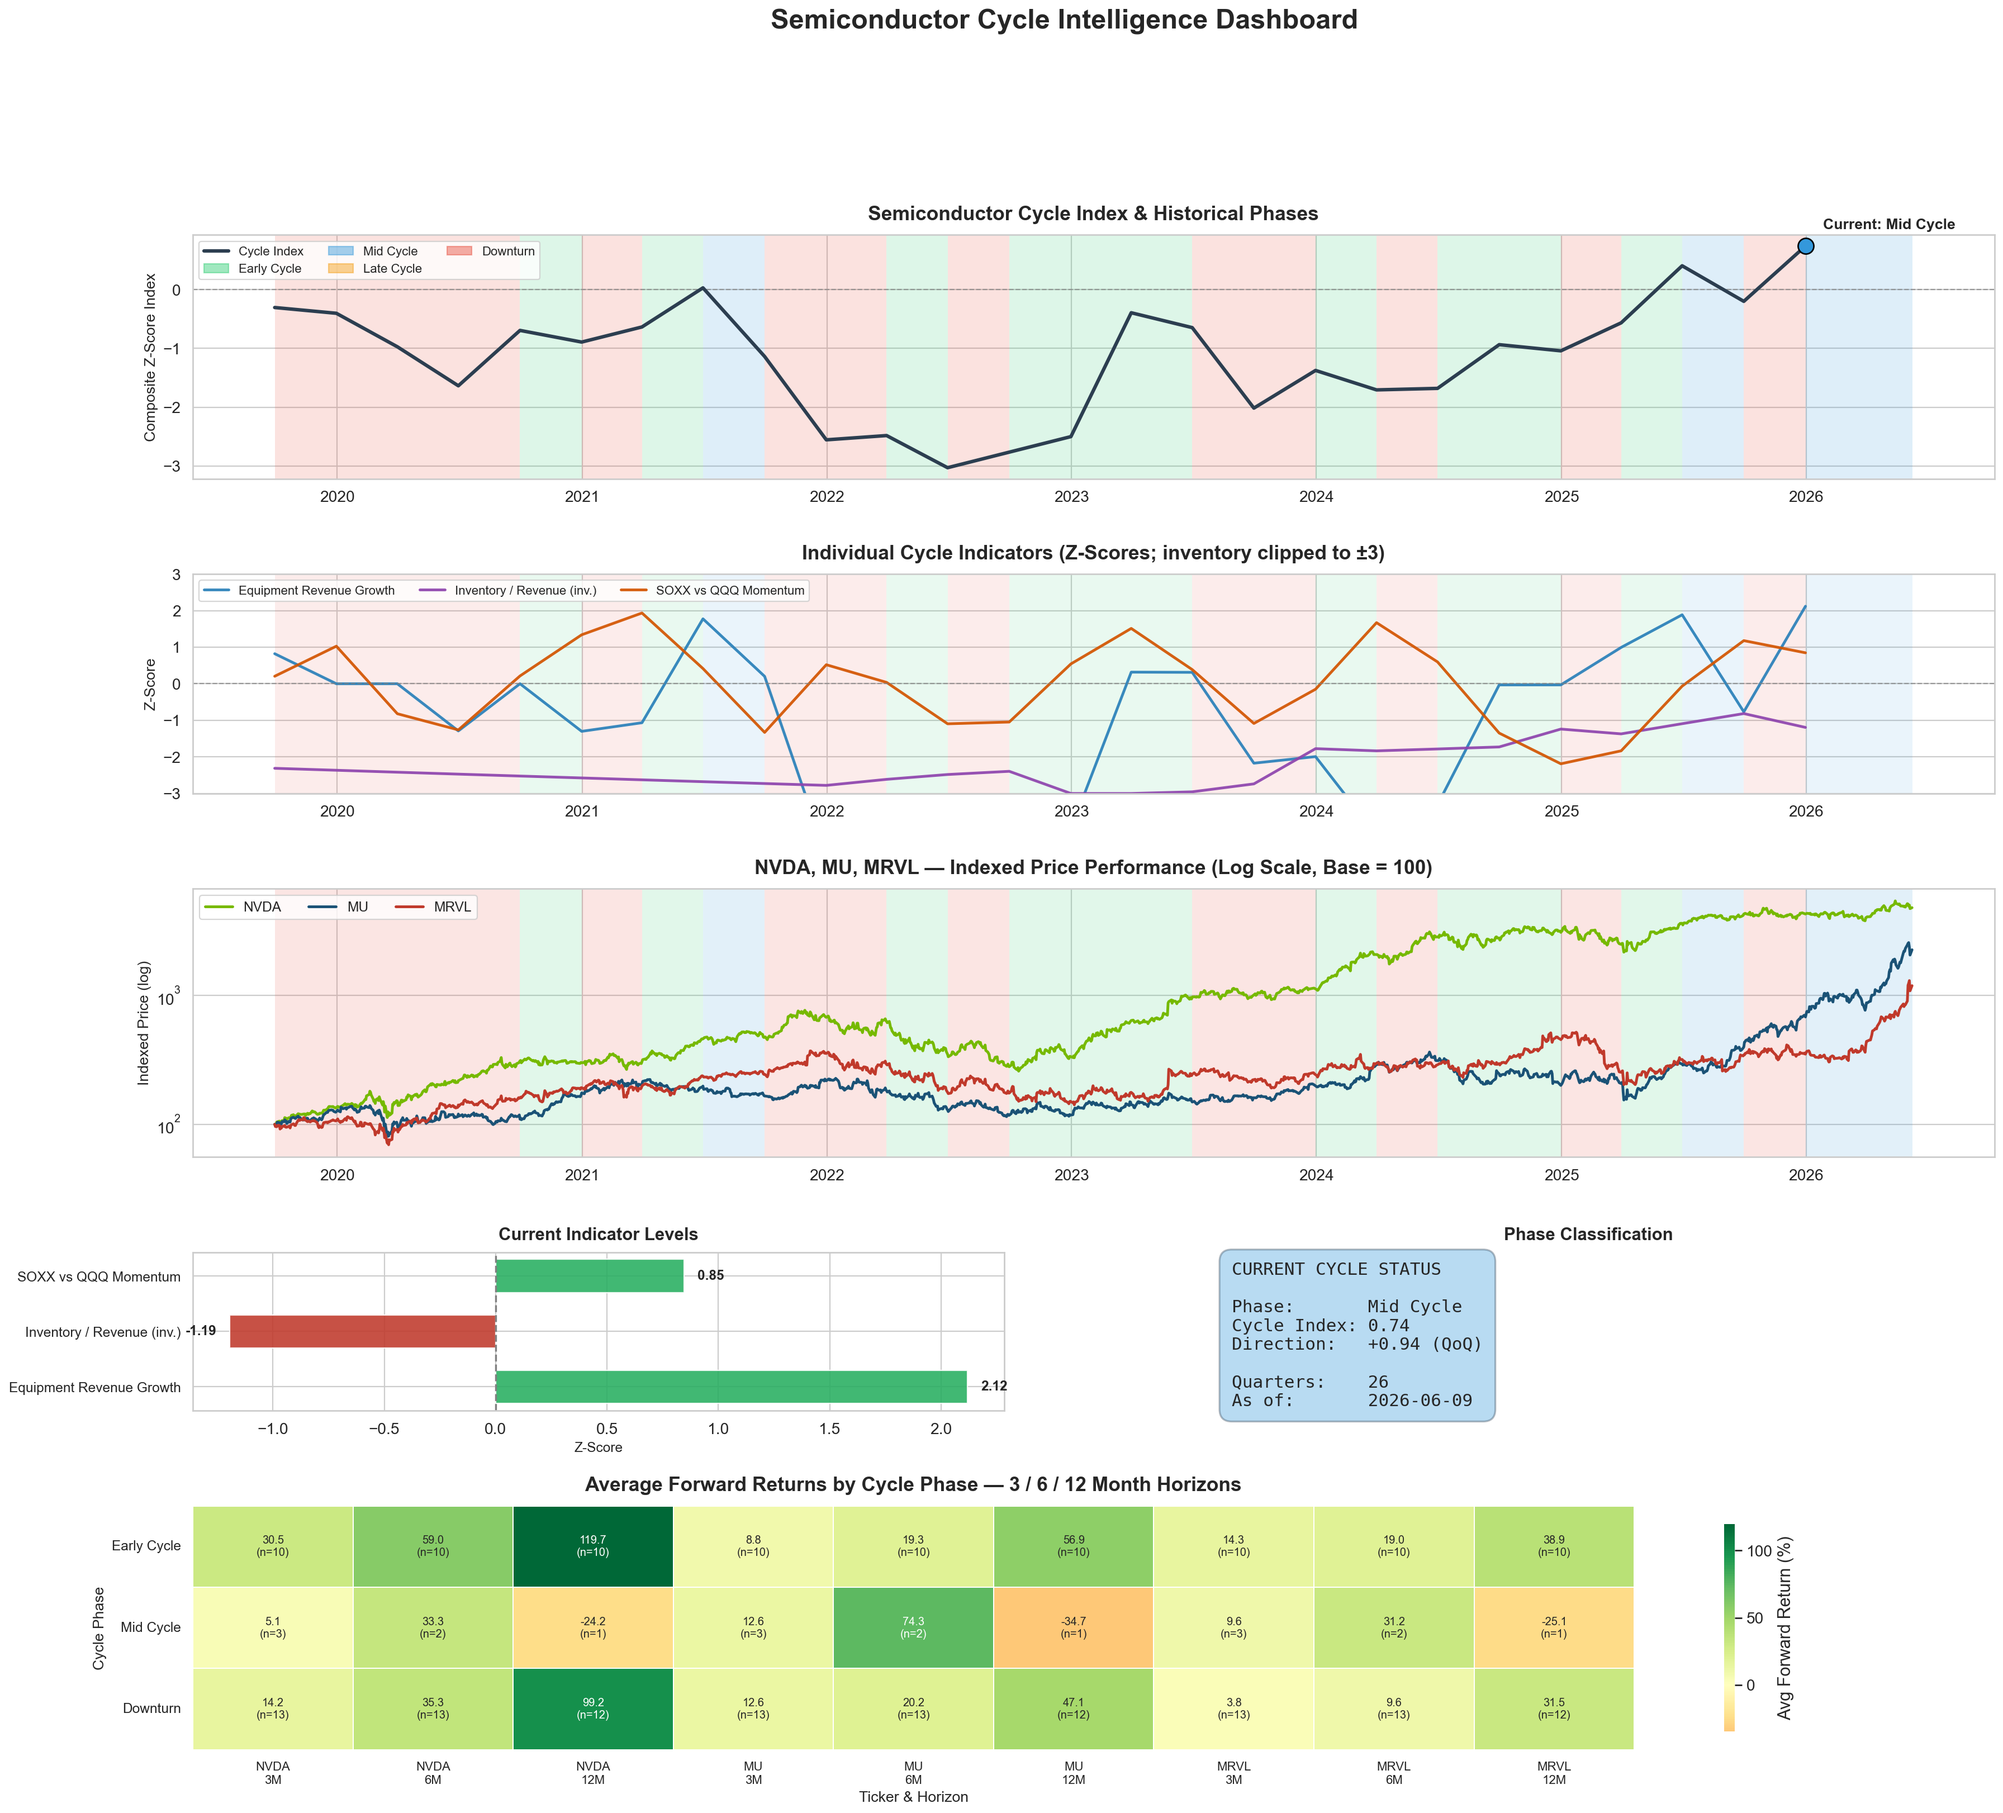
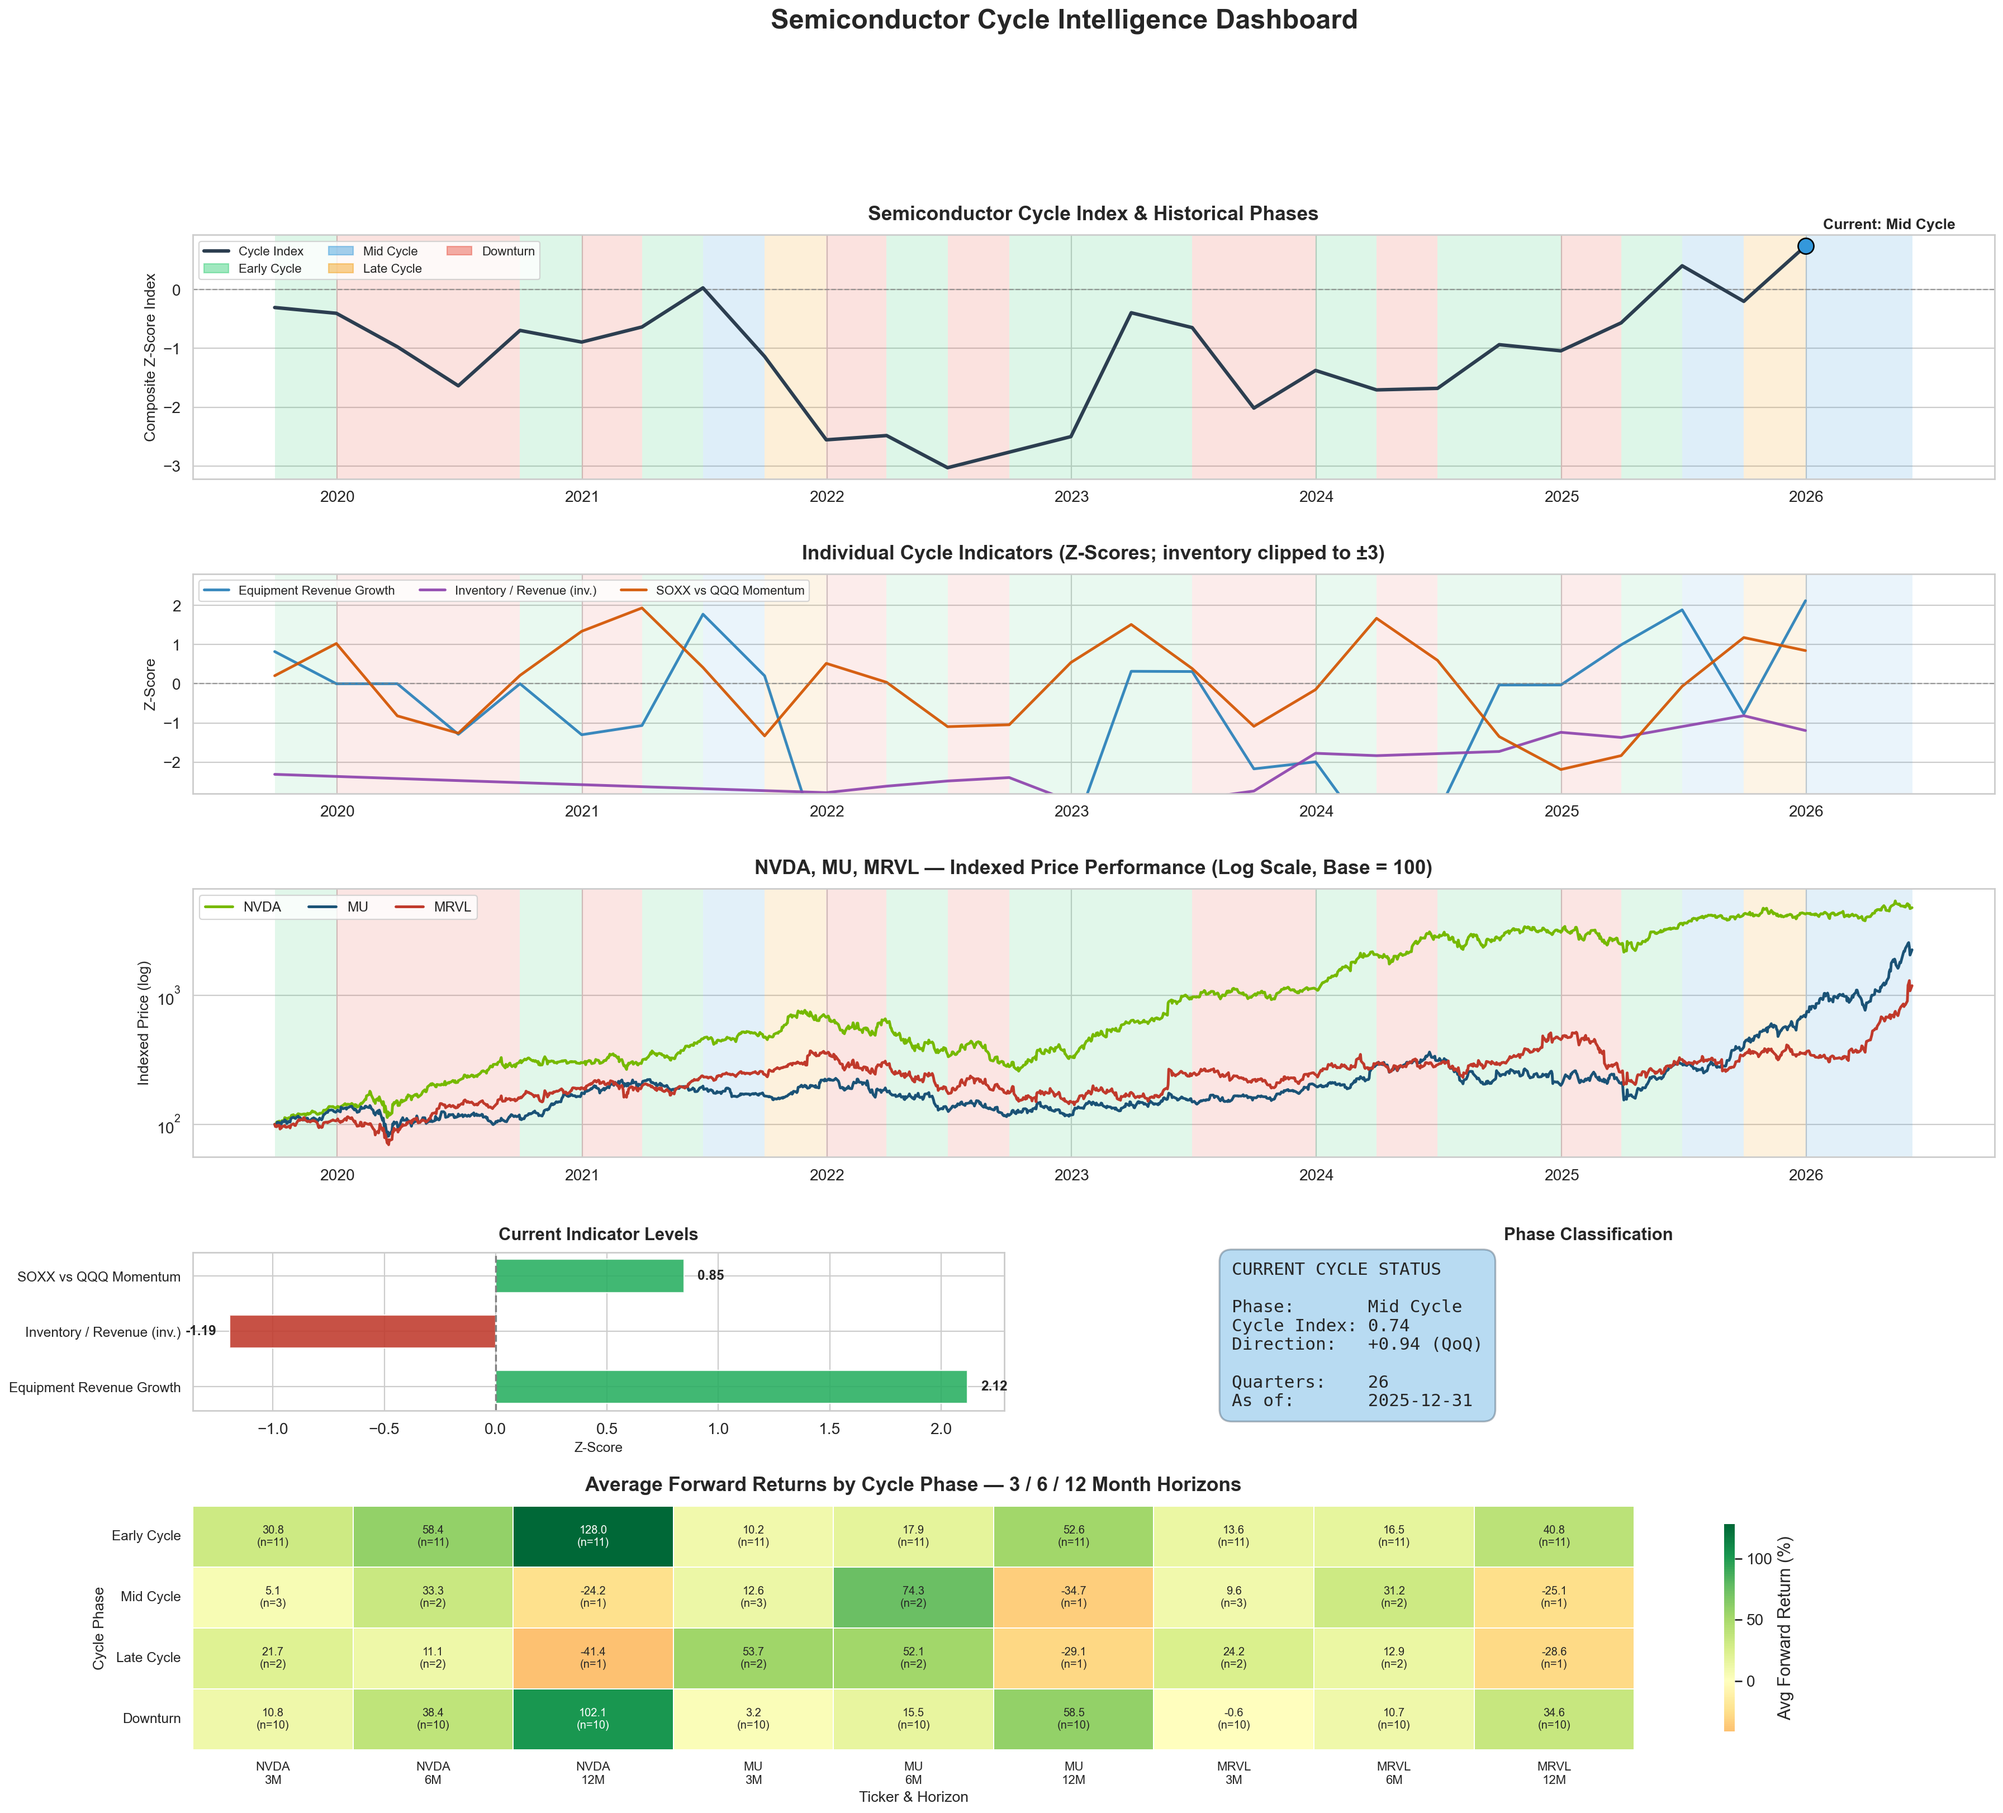
Fix Late Cycle classifier, update README, fix date and indicator bounds

diff --git a/cycle_classifier.py b/cycle_classifier.py
@@ -2,6 +2,7 @@
 
 from __future__ import annotations
 
+import numpy as np
 import pandas as pd
 
 PHASES = ("Early Cycle", "Mid Cycle", "Late Cycle", "Downturn")
@@ -29,24 +30,38 @@ def composite_index(indicators: pd.DataFrame) -> pd.Series:
     return index
 
 
-def classify_phase(index_level: float, direction: float) -> str:
+def classify_phase(
+    index_level: float,
+    direction: float,
+    prior_level: float | None = None,
+) -> str:
     """
-    Classify a quarter using composite index level and quarter-over-quarter change.
+    Classify a quarter using composite index level, QoQ direction, and prior level.
 
-    Early Cycle  — recovering from trough (low level, positive direction)
-    Mid Cycle    — expansion (elevated level, non-negative direction)
-    Late Cycle   — peak / rollover (elevated level, negative direction)
-    Downturn     — contraction (low level, negative direction)
+    Late Cycle uses the *prior* quarter's elevation when direction turns negative,
+    because sharp rollovers often pull the index below zero in the same quarter.
+
+    Early Cycle  — recovering from trough (prior below 0, direction positive)
+    Mid Cycle    — expansion (elevated and improving)
+    Late Cycle   — peak / rollover (elevated prior level, negative direction)
+    Downturn     — contraction (not elevated, negative direction)
     """
-    elevated = index_level >= 0.0
+    if prior_level is None or not np.isfinite(prior_level):
+        prior_level = index_level
+
+    if not np.isfinite(direction):
+        return "Mid Cycle" if index_level >= 0 else "Early Cycle"
+
+    was_elevated = prior_level >= 0.0
+    is_elevated = index_level >= 0.0
     improving = direction >= 0.0
 
-    if elevated and improving:
-        return "Mid Cycle"
-    if elevated and not improving:
+    if was_elevated and not improving:
         return "Late Cycle"
-    if not elevated and improving:
-        return "Early Cycle"
+    if is_elevated and improving:
+        return "Mid Cycle"
+    if not was_elevated and improving:
+        return "Early Cycle" if index_level < 0 else "Mid Cycle"
     return "Downturn"
 
 
@@ -54,19 +69,15 @@ def classify_series(indicators: pd.DataFrame) -> pd.DataFrame:
     """Add composite index, direction, and phase labels to indicator frame."""
     idx = composite_index(indicators)
     direction = idx.diff()
+    prior = idx.shift(1)
+
     phases = [
-        classify_phase(level, dir_)
-        for level, dir_ in zip(idx, direction, strict=False)
+        classify_phase(level, dir_, prior_level=prev)
+        for level, dir_, prev in zip(idx, direction, prior, strict=False)
     ]
 
     out = indicators.copy()
     out["cycle_index"] = idx
     out["cycle_direction"] = direction
     out["phase"] = phases
-    # First quarter has no direction — label from level only
-    if len(out) > 0:
-        first_level = out["cycle_index"].iloc[0]
-        out.iloc[0, out.columns.get_loc("phase")] = (
-            "Mid Cycle" if first_level >= 0 else "Early Cycle"
-        )
     return out.dropna(subset=["cycle_index"])

diff --git a/dashboard.py b/dashboard.py
@@ -2,7 +2,6 @@
 
 from __future__ import annotations
 
-from datetime import date
 from pathlib import Path
 
 import matplotlib.dates as mdates
@@ -205,7 +204,7 @@ def create_dashboard(
                 alpha=0.92,
             )
         ax_indicator_ts.axhline(0, color="gray", linestyle="--", linewidth=1, alpha=0.7)
-    ax_indicator_ts.set_ylim(-3, 3)
+    ax_indicator_ts.set_ylim(-2.8, 2.8)
 
     ax_indicator_ts.set_title(
         "Individual Cycle Indicators (Z-Scores; inventory clipped to ±3)",
@@ -287,6 +286,7 @@ def create_dashboard(
     ax_current_card.axis("off")
     if not classified.empty:
         status_row = _status_row(classified, data_as_of)
+        as_of_quarter = pd.Timestamp(status_row.name).strftime("%Y-%m-%d")
         card_lines = [
             "CURRENT CYCLE STATUS",
             "",
@@ -295,7 +295,7 @@ def create_dashboard(
             f"Direction:   {status_row.get('cycle_direction', float('nan')):+.2f} (QoQ)",
             "",
             f"Quarters:    {len(classified)}",
-            f"As of:       {date.today().strftime('%Y-%m-%d')}",
+            f"As of:       {as_of_quarter}",
         ]
         ax_current_card.text(
             0.06,

diff --git a/data_collector.py b/data_collector.py
@@ -239,17 +239,19 @@ def fetch_daily_prices(
 
 
 def latest_reported_quarter() -> pd.Timestamp | None:
-    """Most recent calendar quarter with reported (non-estimated) quarterly filings."""
-    quarter_dates: list[pd.Timestamp] = []
+    """Latest quarter with broad quarterly filing coverage (min of per-ticker report dates)."""
+    latest_per_ticker: list[pd.Timestamp] = []
     for ticker in EQUIPMENT_TICKERS:
         reported = _line_item_series(ticker, "income", REVENUE_ROWS, freq="quarterly")
-        quarter_dates.extend(reported.dropna().index.tolist())
+        if not reported.empty:
+            latest_per_ticker.append(reported.index.max())
     for ticker in ("MU", "TXN"):
         reported = _line_item_series(ticker, "balance", INVENTORY_ROWS, freq="quarterly")
-        quarter_dates.extend(reported.dropna().index.tolist())
-    if not quarter_dates:
+        if not reported.empty:
+            latest_per_ticker.append(reported.index.max())
+    if not latest_per_ticker:
         return None
-    return pd.Timestamp(max(quarter_dates))
+    return pd.Timestamp(min(latest_per_ticker))
 
 
 def collect_all() -> dict[str, pd.DataFrame | pd.Timestamp | None]:

diff --git a/README.md b/README.md
@@ -149,25 +149,61 @@ Console summary from a recent run:
 
 ```
 [3/5] Classifying cycle phases...
-  Current phase: Late Cycle
-  Cycle index: 0.40
+  Current phase: Mid Cycle
+  Cycle index: 0.74
 
 [4/5] Computing forward returns by phase...
-     phase ticker  horizon_months  avg_forward_return  n_obs
-Late Cycle   MRVL               3            0.166407      1
-Late Cycle     MU               3            0.184198      1
-Late Cycle   NVDA               3           -0.064829      1
+      phase ticker  horizon_months  avg_forward_return  n_obs
+   Downturn   MRVL               3           -0.005608     10
+   Downturn   MRVL               6            0.107061     10
+   Downturn   MRVL              12            0.346217     10
+   Downturn     MU               3            0.032374     10
+   Downturn     MU               6            0.155046     10
+   Downturn     MU              12            0.584970     10
+   Downturn   NVDA               3            0.108105     10
+   Downturn   NVDA               6            0.383845     10
+   Downturn   NVDA              12            1.020781     10
+Early Cycle   MRVL               3            0.136133     11
+Early Cycle   MRVL               6            0.165145     11
+Early Cycle   MRVL              12            0.408205     11
+Early Cycle     MU               3            0.101783     11
+Early Cycle     MU               6            0.179151     11
+Early Cycle     MU              12            0.525741     11
+Early Cycle   NVDA               3            0.308011     11
+Early Cycle   NVDA               6            0.584448     11
+Early Cycle   NVDA              12            1.280069     11
+ Late Cycle   MRVL               3            0.241944      2
+ Late Cycle   MRVL               6            0.129257      2
+ Late Cycle   MRVL              12           -0.285709      1
+ Late Cycle     MU               3            0.536747      2
+ Late Cycle     MU               6            0.521242      2
+ Late Cycle     MU              12           -0.291064      1
+ Late Cycle   NVDA               3            0.216774      2
+ Late Cycle   NVDA               6            0.111194      2
+ Late Cycle   NVDA              12           -0.413558      1
+  Mid Cycle   MRVL               3            0.096171      3
+  Mid Cycle   MRVL               6            0.312325      2
+  Mid Cycle   MRVL              12           -0.251025      1
+  Mid Cycle     MU               3            0.126488      3
+  Mid Cycle     MU               6            0.742678      2
+  Mid Cycle     MU              12           -0.346999      1
+  Mid Cycle   NVDA               3            0.050684      3
+  Mid Cycle   NVDA               6            0.333364      2
+  Mid Cycle   NVDA              12           -0.241629      1
 ```
 
-Excerpt from the AI brief (`semiconductor_cycle_brief.txt`):
+Current indicator readings (Q4 2025):
 
-> **Late Cycle** conditions persist as of Q1 2026, with cycle index at **0.403** – down sharply from 0.859 in Q4 2025. The **-0.456 QoQ decline** signals meaningful late-cycle deterioration.
->
-> - **Equipment Revenue Growth: -0.838σ** — below-trend capex spending
-> - **Inventory-to-Revenue: +1.37σ** — elevated inventory suggests destocking ahead
-> - **SOXX Relative Momentum: +1.09σ** — equities still outperforming despite weakening fundamentals
+| Metric | Value |
+|--------|-------|
+| Phase | Mid Cycle |
+| Cycle index | 0.74 |
+| Direction (QoQ) | +0.94 |
+| Equipment revenue growth | +2.12σ |
+| Inventory / revenue | −1.19σ (lean) |
+| SOXX vs QQQ momentum | +0.85σ |
 
-The dashboard overlays phase-colored bands on the composite index time series, bar charts of current z-scores, and a heatmap of historical forward returns by phase.
+The dashboard overlays phase-colored bands on the composite index, individual indicator z-scores, log-scale indexed prices for NVDA/MU/MRVL, and a forward-return heatmap across all four phases.
 
 ---
 
